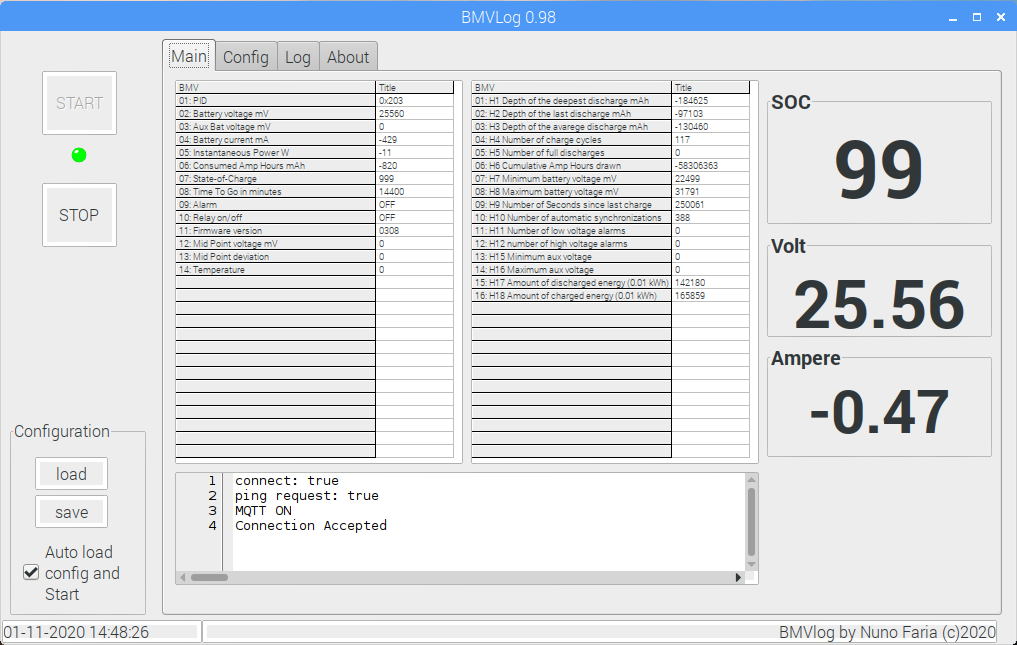
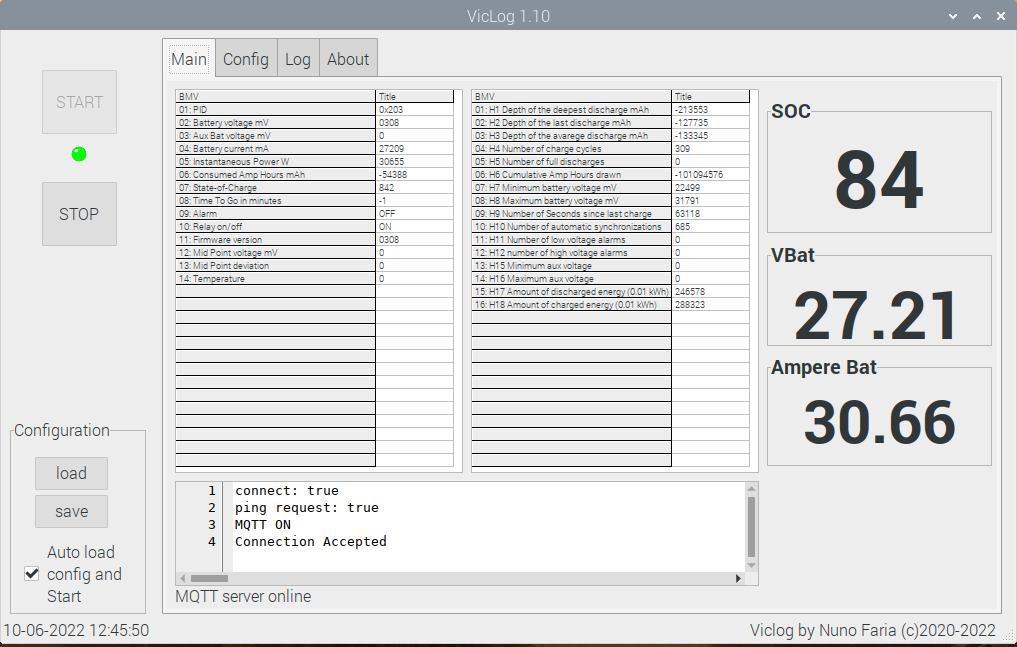
update to v1.1.0

diff --git a/docs/suporternames.md b/docs/suporternames.md
@@ -1,53 +1,72 @@
-* Rene		Medzech
-* Uwe		Gutsche
-* Tobias	Jachmann
-* Jörg		Malcher
-* Bernhard	Malcher
-* Steffen	Crocoll
-* Marco	Kleemann
-* Sebastian	Strasser
-* Thomas	Hembach
-* Johann	Korn
-* Karl		Ruhland
-* Nikolas	Zauner
-* Sinisa	Novak
-* Guido	Kolbe
-* Morten	Rasmussen
-* Dirk		Winter
-* George	Clark
-* Thomas	Schmidt
-* Uwe		Waizmann
-* Michael	Ciliox
-* Torsten	Stenzel
-* Matthias	Heemcke
-* Sebastian	Weise
-* Ronald	Brendler
-* Colin	Faulkner
-* Gero		Schierding
-* Ronny	Pfeiffer
-* Anton	Panasevich
-* Sebastian	Hilscher
-* Heikki	Tiittanen
-* Roland	Ostermair
-* René		Wolters
-* Joachim	Wagner
-* Steve	Robertson
-* Andreas	Kranzbühler
-* Dirk		Weiss
-* Rasmus	Lauritsen
-* Marc 	Schwarz
-* Andrzej	Banczyk
-* Rudolf 	Kasper
-* Benjamin	Kreie
-* Sven 	Milleville
-* Johann	Scharl
-* Catalin 	Cretu
-* Mark		Minge
-* Tobias	Schmid
-* Siegfried	Fassbinder
-* Reto		Stoffel
-* Achim	Biel
-* Herminio	Fernandes
-* Michael	Bieber
-* Haarhoff
-* Bogdan	Sandulache 
+*	Achim	Biel
+*	Andreas	Kranzbühler
+*	Andrzej	Banczyk
+*	Anton	Panasevich
+*	Armando	Larosa
+*	Aucher	Marquage
+*	Benjamin	Kreie
+*	Benjamin 	Sauter
+*	Bernhard	Malcher
+*	Bogdan 	Sandulache
+*	Catalin 	Cretu
+*	Colin	Faulkner
+*	Damiano	Corbetta
+*	Dirk	Winter
+*	Dirk	Weiss
+*	Fastsonic	
+*	Gareth	Williams
+*	George	Clark
+*	German	 Gavela
+*	Gero	Schierding
+*	Guido	Kolbe
+*	Haarhoff	
+*	Heikki	Tiittanen
+*	Herminio	Fernandes
+*	Jaco	Janse van Rensburg
+*	Jay	Matthews
+*	Joachim	Wagner
+*	Johann	Korn
+*	Johann	Scharl
+*	Jörg	Malcher
+*	Karl	Ruhland
+*	Leo	Scholtes
+*	Loi	Gianfranco
+*	Marc 	Schwarz
+*	Marco	Kleemann
+*	Mario 	Müller
+*	Mark	Minge
+*	Martin	Vitvera
+*	Matthias	Heemcke
+*	Michael	Ciliox
+*	Michael	Bieber
+*	Morten	Rasmussen
+*	Nikolas	Zauner
+*	Patrick	Böttcher 
+*	Paulo 	Freitas
+*	Rasmus	Lauritsen
+*	Rene	Medzech
+*	René	Wolters
+*	Reto	Stoffel
+*	Ricardo	Sigala
+*	Roland	Ostermair
+*	Ronald	Brendler
+*	Ronny	Pfeiffer
+*	Rudolf 	Kasper
+*	Salvatore	Petrone
+*	Sebastian	Strasser
+*	Sebastian	Weise
+*	Sebastian	Hilscher
+*	Siegfried	Fassbinder
+*	Sinisa	Novak
+*	Stefan	Etzenberger
+*	Steffen	Crocoll
+*	Steve	Robertson
+*	Sven 	Milleville
+*	Thomas	Hembach
+*	Thomas	Schmidt
+*	Tobias	Jachmann
+*	Tobias	Schmid
+*	Torsten	Stenzel
+*	Uwe	Gutsche
+*	Uwe	Waizmann
+

diff --git a/README.md b/README.md
@@ -4,7 +4,7 @@
 [<img alt="donate" src="https://img.shields.io/badge/donate-Paypal-green">](https://www.paypal.com/donate?hosted_button_id=ZDTGKU48JP678&source=url)
 [<img alt="Suporter Names" src="https://img.shields.io/badge/suporter-names-orange">](/docs/suporternames.md)
 
-logger for Victrons BMV Battery Monitors on Raspberry
+logger for Victrons BMV Battery Monitor and MPTT charger on Raspberry
 
 Sends data per MQTT to your local broker ( for Home Automation for example ) and to your local Emoncms account.
 Interfaces with solpiplog to change the inverter to switch to grid or solar, based on predifined SOC values.
@@ -20,4 +20,4 @@ Interfaces with solpiplog to change the inverter to switch to grid or solar, bas
 ## [Values sent over MQTT](/docs/mqttvalues.md)
 ## Appearance
 ![bmvlog](bmvmain.png)
-![bmvlog](bmvconfig.jpg)
+![bmvlog](bmvconfig.png)
